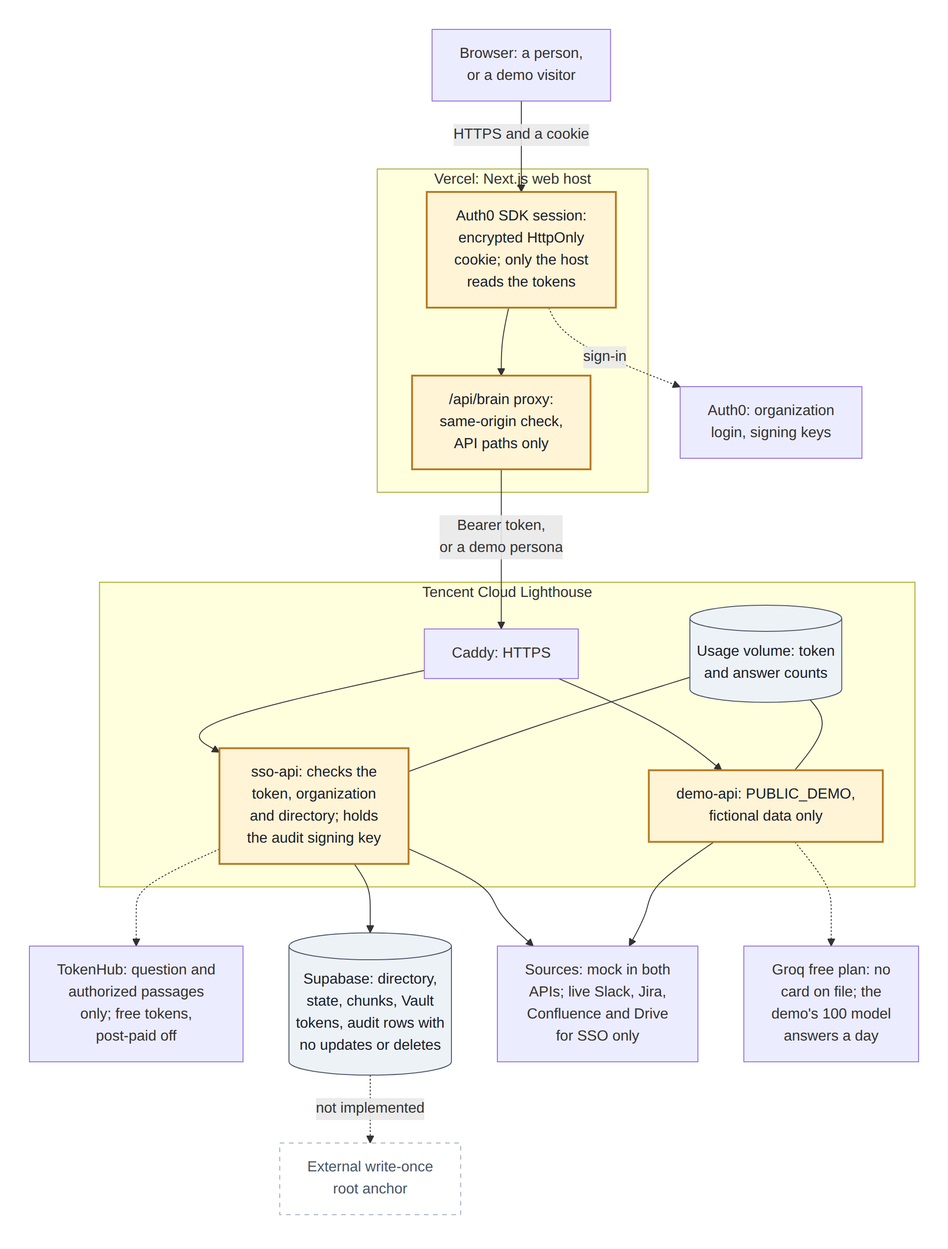
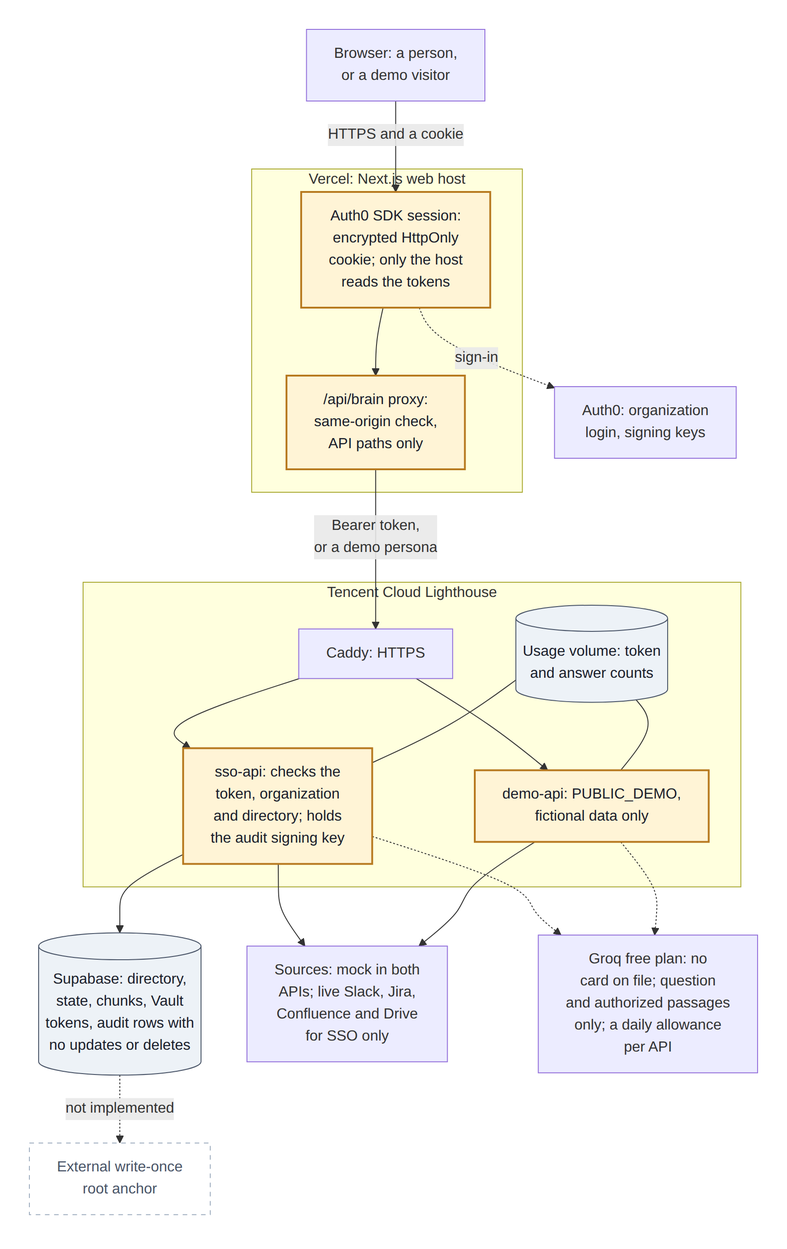
docs: no Tencent model; Groq answers on both APIs; log D55
TokenHub stopped the free trial's services for insufficient balance, and the
team chose to drop Tencent's models, for answers and for embeddings.

- The README, .env.example, the hosting guide, the architecture page and the
  hosting diagram with the trust-boundary table name Groq only.
- sso.env.example gives the sign-in API Groq lines with its own daily allowance.
- The tokenhub and hunyuan presets and the Hunyuan embedding client stay in
  the code as tested options, unused.
- Semantic search is off until another embedding provider is added.

diff --git a/README.md b/README.md
@@ -2,7 +2,7 @@
 
 # Internal Brain
 
-A permission-aware knowledge workspace over Slack, Jira, Confluence, and Drive data. Local fixtures are the default; opt-in live connectors read configured items from all four providers. It runs as a pnpm TypeScript workspace with a Node API and a Next.js web host. Vite builds the existing workspace UI served by that host. The web header and navigation use React with shadcn components; the workspace views still use the existing JavaScript controller. The default search is an in memory sparse term vector, keyword, and freshness index. Optional Hunyuan embeddings add semantic vectors, and optional Supabase uses pgvector and Postgres full text search. A remote FGA adapter can also be selected with environment variables; the default path uses in process grants.
+A permission-aware knowledge workspace over Slack, Jira, Confluence, and Drive data. Local fixtures are the default; opt-in live connectors read configured items from all four providers. It runs as a pnpm TypeScript workspace with a Node API and a Next.js web host. Vite builds the existing workspace UI served by that host. The web header and navigation use React with shadcn components; the workspace views still use the existing JavaScript controller. The default search is an in memory sparse term vector, keyword, and freshness index. Optional embeddings add semantic vectors (none are configured: Tencent's were dropped, D55), and optional Supabase uses pgvector and Postgres full text search. A remote FGA adapter can also be selected with environment variables; the default path uses in process grants.
 
 ## Run
 
@@ -69,7 +69,7 @@ A question that names a platform (Slack, Jira, Confluence, Drive) gets that plat
 
 In the default demo, changes made through admin routes or workspace actions alter only the running mock process and reset on restart. Content edits increment a source version and sync immediately. A permission edit changes grants without rebuilding chunks. Sync also compares source IDs and tombstones deleted fixtures. Search finds candidate IDs before permission checks; the API checks selected documents against the source before building answer context and again after generation, before returning it. A revoked item causes a fixed no-result response on that query. In live mode, change source permissions and content at the provider.
 
-With `HUNYUAN_EMBEDDING_API_KEY`, sync embeds changed document chunks and a query embeds its question. With `SUPABASE_URL` and `SUPABASE_SECRET_KEY` as well, sync writes documents and changed chunks to Supabase and queries its `hybrid_search` RPC. The RPC returns candidate document and chunk IDs and scores; local and optional remote authorization plus live mock source checks still run before content enters an answer. Query embedding or Supabase search failures fall back to the local index. Embedding or Supabase **sync write** failures fail that sync run for retry; initial sync runs in the background. Supabase configuration enables durable index/grant snapshots, cursors, checkpoints, connections and import jobs.
+With an embedding provider, sync embeds changed document chunks and a query embeds its question. None is configured at the moment: the only one in the code is Tencent's Hunyuan (`HUNYUAN_EMBEDDING_API_KEY`), which isn't used (D55). With `SUPABASE_URL` and `SUPABASE_SECRET_KEY` as well, sync writes documents and changed chunks to Supabase and queries its `hybrid_search` RPC. The RPC returns candidate document and chunk IDs and scores; local and optional remote authorization plus live mock source checks still run before content enters an answer. Query embedding or Supabase search failures fall back to the local index. Embedding or Supabase **sync write** failures fail that sync run for retry; initial sync runs in the background. Supabase configuration enables durable index/grant snapshots, cursors, checkpoints, connections and import jobs.
 
 ## Choosing what a company includes
 
@@ -107,25 +107,28 @@ suggestions.
 
 Without a model, the built-in writer answers: it quotes the most relevant source in full and the best sentence of the next three. A model can only choose and order sentences better. Every answer, from either, keeps only lines copied word for word from the sources the asker may see, each with its citation.
 
-The project pays for no model use (`decisions.md`, D27 and D28):
+The project pays for no model use (`decisions.md`, D27, D28 and D55):
 
-- **Providers:** `LLM_PROVIDER` is `tokenhub`, `hunyuan` or `groq`.
-  - `tokenhub` is Tencent's international model service, TokenHub. Hunyuan's models there are `hy4-preview` and `hy3`. Each language model gets 1M free tokens for 90 days, claimed under **New User Free Trial** in the Model Gallery or automatically on the first call, and calls stop when they run out unless post-paid billing is enabled. It is off by default; keep it off.
-  - `hunyuan` is Tencent's China-site Hunyuan API (for example `hunyuan-t1-latest`), where the same rule applies under **Postpaid Settings** in the Tencent HY console.
-  - Groq's free plan has no card on file, so it can never bill. Use `openai/gpt-oss-120b` with `LLM_MAX_TOKENS=4000`:
-    on 2 Oct, 8 of 9 measured answers were grounded at about 870 tokens each. Groq has retired
-    `llama-3.3-70b-versatile`; its console lists the current models.
-  - Claiming TokenHub's free trial creates a default inference service per model. Tencent stops that service while
-    the account balance is insufficient, even on the free trial, and calls then fail with code `401006`. The
-    console's Online Inference page shows the service's status.
-  - Every provider but Groq only starts with a usage file and budgets set below the free tokens, a second stop that keeps tokens for the showcase.
+- **Provider:** Groq, on both APIs (D54, D55): `LLM_PROVIDER=groq`, `LLM_MODEL=openai/gpt-oss-120b` and
+  `LLM_MAX_TOKENS=4000`. Groq's free plan has no card on file, so it can never bill. On 2 Oct, 8 of 9 measured answers
+  were grounded at about 870 tokens each. Groq has retired `llama-3.3-70b-versatile`; its console lists the current
+  models.
+  - **Tencent's models aren't used** (D55). TokenHub stopped the free trial's inference services while the account
+    balance was insufficient, and calls failed with code `401006`. The client keeps its `tokenhub` and `hunyuan`
+    presets as tested options. They only start with a usage file and token budgets below the free tokens, and Tencent
+    bills only if post-paid billing is turned on.
 - **Usage meter:** `LLM_USAGE_FILE` keeps the token and answer counts across restarts. At `LLM_TOKEN_BUDGET` or `LLM_DAILY_ANSWERS`, the built-in writer answers instead. If the model is rate limited, failing or takes over 60 seconds, or no line of its reply is copied word for word, it does the same, and the audit records an `llm_fallback` event with the reason. If the usage file can't be read or written, no model is called.
   - Calls still running count against the limits, so questions asked at the same moment can't all get past them.
   - A call that gives no usable answer still counts what the provider may bill. A refused request counts nothing.
-- **One account, one budget:** each machine counts only its own calls. When a laptop and the server share a Tencent Cloud account, their `LLM_TOKEN_BUDGET` values together must stay below the free tokens, for example 100000 and 700000. The same goes for `EMBEDDING_TOKEN_BUDGET`.
+- **One Groq account:** its free plan limits requests and tokens per minute and per day, and every key in the account
+  shares those limits: both APIs, and any laptop. Each API's `LLM_DAILY_ANSWERS` caps its share.
 - **Semantic search:** at `EMBEDDING_TOKEN_BUDGET`, semantic search pauses and keyword search carries on.
-- **`pnpm llm:usage`** asks ten typical questions through the configured model and prints the tokens each call used, and why any call gave no usable answer. It then projects 350 answers against the free tokens. "Fits" means the plan stays under 70% of the free tokens; otherwise it says to use Groq. For Groq, whose free plan can't bill, it reports the tokens and points to Groq's daily limits instead. Its calls count against the budget.
-- **`pnpm llm:calibrate`** (Hunyuan route) embeds the mock documents and labelled questions, then suggests a value for `SEMANTIC_MIN` from the scores.
+- **`pnpm llm:usage`** asks ten typical questions through the configured model and prints the tokens each call used,
+  and why any call gave no usable answer. For Groq, whose free plan can't bill, it reports the tokens and points to
+  Groq's daily limits. For the unused Tencent presets, it projects 350 answers against their free tokens instead. Its
+  calls count against the meter.
+- **`pnpm llm:calibrate`** embeds the mock documents and labelled questions, then suggests a value for `SEMANTIC_MIN`
+  from the scores. It needs an embedding provider, and none is configured since D55.
 
 Both scripts read `.env.local`. The hosted APIs take their model settings as described in [infra/tencent/README.md](infra/tencent/README.md).
 
@@ -165,9 +168,9 @@ All `/v1` routes require either a valid bearer token configured as below or, in 
 | `PUBLIC_DEMO=true` | Runs the public demo API: it accepts `x-demo-user` even with `NODE_ENV=production` and serves only the mock corpus. Startup fails if any Auth0, Supabase, live-source, source-OAuth or remote FGA setting is present. See [hosting](infra/tencent/README.md). |
 | `DEMO_API_URL` (web host) | The demo API's origin. When set, the start page offers **Try the demo**, and demo visitors' workspace requests go there with only the chosen persona. |
 | `AUTH0_ISSUER`, `AUTH0_AUDIENCE`, `AUTH0_ORG_ID` | Auth0 SSO with cached JWKS, active directory lookup and organization validation. Requires Supabase directory/persistence and an audit signing key. See [setup](docs/live-sources-and-sign-in.md). |
-| `LLM_PROVIDER`, `LLM_API_KEY`, `LLM_MODEL` | Optional language model, `tokenhub`, `hunyuan` or `groq`; without them, the built-in writer answers. The older `HUNYUAN_API_KEY` and `HUNYUAN_MODEL` still select Hunyuan. A key or model alone causes startup configuration failure. `LLM_BASE_URL` sends the same API to another HTTPS address, or to plain HTTP on this machine for a local stub. `LLM_MAX_TOKENS` caps each answer (default 1500; reasoning models such as hy4-preview and gpt-oss need about 4000). See [Language model](#language-model-optional-free-only). |
-| `LLM_USAGE_FILE`, `LLM_TOKEN_BUDGET`, `LLM_DAILY_ANSWERS` | The usage meter: counts kept across restarts, a total token budget and model answers per UTC day. At either limit, the built-in writer answers. TokenHub and Hunyuan need the file and the budget to start. |
-| `HUNYUAN_EMBEDDING_API_KEY`, `EMBEDDING_TOKEN_BUDGET` | Enables 1024-dimensional Hunyuan embeddings for changed chunks and questions; needs `LLM_USAGE_FILE` and the budget. With no Supabase variables, semantic ranking runs in the local index. At the budget, semantic search pauses and keyword search carries on. |
+| `LLM_PROVIDER`, `LLM_API_KEY`, `LLM_MODEL` | Optional language model: `groq` (D55); without them, the built-in writer answers. The `tokenhub` and `hunyuan` presets, and the older `HUNYUAN_API_KEY` and `HUNYUAN_MODEL`, still work but aren't used. A key or model alone causes startup configuration failure. `LLM_BASE_URL` sends the same API to another HTTPS address, or to plain HTTP on this machine for a local stub. `LLM_MAX_TOKENS` caps each answer (default 1500; reasoning models such as gpt-oss need about 4000). See [Language model](#language-model-optional-free-only). |
+| `LLM_USAGE_FILE`, `LLM_TOKEN_BUDGET`, `LLM_DAILY_ANSWERS` | The usage meter: counts kept across restarts, a total token budget and model answers per UTC day. At either limit, the built-in writer answers. Optional for Groq; the unused Tencent presets need the file and the budget to start. |
+| `HUNYUAN_EMBEDDING_API_KEY`, `EMBEDDING_TOKEN_BUDGET` | Not used (D55). Enables 1024-dimensional Hunyuan embeddings for changed chunks and questions; needs `LLM_USAGE_FILE` and the budget. With no Supabase variables, semantic ranking runs in the local index. At the budget, semantic search pauses and keyword search carries on. |
 | `SUPABASE_URL`, `SUPABASE_SECRET_KEY` | Server-only directory, audit and state persistence. With embeddings, also enables pgvector search. Apply migrations 001–005. |
 | `LIVE_SOURCES_JSON` | Selects real HTTP readers for configured Slack channels, Jira issues, Confluence pages, and Google Drive files. All four source entries, provider credentials, and Auth0 sign-in are required. See [setup and limits](docs/live-sources-and-sign-in.md). |
 | `AUDIT_LOG_PATH`, `AUDIT_SIGNING_KEY_FILE` | Together select a flushed JSONL audit file and load a PEM private signing key for Merkle batches. With neither, audit data and roots are in memory. Setting a log path without a key fails startup. |

diff --git a/docs/trust-boundary.md b/docs/trust-boundary.md
@@ -32,10 +32,9 @@ flowchart TB
     DemoAPI["demo-api: PUBLIC_DEMO,<br/>fictional data only"]
   end
 
-  TokenHub["TokenHub: question and<br/>authorized passages<br/>only; free tokens,<br/>post-paid off"]
   Supabase[("Supabase: directory,<br/>state, chunks, Vault<br/>tokens, audit rows with<br/>no updates or deletes")]
   Sources["Sources: mock in both<br/>APIs; live Slack, Jira,<br/>Confluence and Drive<br/>for SSO only"]
-  Groq["Groq free plan: no<br/>card on file; the<br/>demo's 100 model<br/>answers a day"]
+  Groq["Groq free plan: no<br/>card on file; question<br/>and authorized passages<br/>only; a daily allowance<br/>per API"]
   Anchor["External write-once<br/>root anchor"]
 
   Visitor -->|"HTTPS and a cookie"| Session
@@ -46,7 +45,7 @@ flowchart TB
   Caddy --> DemoAPI
   Usage --- SsoAPI
   Usage --- DemoAPI
-  SsoAPI -.-> TokenHub
+  SsoAPI -.-> Groq
   SsoAPI --> Supabase
   SsoAPI --> Sources
   DemoAPI --> Sources
@@ -114,8 +113,8 @@ sequenceDiagram
 | **SSO API ↔ Auth0** | Signing keys (JWKS), cached. Tokens must be RS256 and match the issuer, audience and expiry, carry `sub`, `exp` and the expected `org_id`, and map to an active directory entry in that organization. | Anything about the question or answer. | The person is checked again before an answer is returned, so a deactivated account stops at once. |
 | **API ↔ Supabase** | The server-only secret key. Directory reads, the state snapshot, ordered audit appends, the `hybrid_search` RPC (which returns IDs and scores), and Vault calls for source tokens. | The secret key, outside the API host. Source tokens in API responses or snapshots. | Triggers reject audit updates and deletes, but not a database owner replacing the database. One audit writer per organization. |
 | **API ↔ sources** | Mock connectors run inside the API. Live connectors use OAuth tokens kept in Vault (or `LIVE_SOURCES_JSON`); each person needs their own delegated credential, and no credential means no access. | Content from one organization to another: each API serves one organization. | Polling only, no webhooks. Live imports read current text only. Workspace actions (creating a task, Mark done) change mock sources only; live connectors keep read-only scopes, so the app links to Jira instead. |
-| **API ↔ model provider** | The question, and the authorized, freshly checked passages with their citation IDs. TokenHub or Hunyuan for SSO, within a token budget; Groq for the demo, within a daily allowance. | Denied documents' titles, metadata or text. Identities, tokens or keys. | The provider sees the passages it is sent. Tencent bills only if post-paid is turned on, which stays off; Groq's free plan can't bill. |
-| **API ↔ embeddings** (optional) | Changed chunk text at sync, and question text at query, to Hunyuan's embedding API. | Permission data. | It sends source text to Tencent when configured. Unconfirmed on TokenHub. |
+| **API ↔ model provider** | The question, and the authorized, freshly checked passages with their citation IDs, to Groq, from both APIs, each within its own daily allowance (D55). | Denied documents' titles, metadata or text. Identities, tokens or keys. | The provider sees the passages it is sent. Groq's free plan has no card on file, so it can't bill; both APIs share its limits. |
+| **API ↔ embeddings** (optional) | None since Tencent's were dropped (D55). With a provider: changed chunk text at sync, restricted documents included, and question text at query. | Permission data. | The provider sees the text of every chunk, not only what one person may read. |
 | **API ↔ remote FGA** (optional) | Organization-scoped tuples at sync; batch checks of document IDs at query. | Document content. | Remote failures deny. Platform permission shapes stay in the connector layer. |
 | **Lighthouse host** | Caddy terminates HTTPS for two host names. `sso-api` reads `sso.env` and the audit signing key (mounted read-only). Both APIs share the usage-count volume. | Real settings in `demo-api`: it refuses to start with any Auth0, Supabase, live-source, source OAuth or remote FGA setting. | `docker compose down -v` deletes the usage counts. |
 | **Audit store and keys** | Ed25519-signed Merkle batches that link each root to the previous one. At startup, the chain, roots and signatures are checked. | The signing key, outside the API host. | No external write-once anchor is running yet (`tools/anchor` covers file-based logs, not Supabase): someone holding both the database and the key could rewrite history. |

diff --git a/infra/tencent/README.md b/infra/tencent/README.md
@@ -162,7 +162,7 @@ over demo mode.
 
 ## 7. Optional: a language model that costs nothing
 
-Without a model, the built-in writer answers. To add one, see `decisions.md`, D27 and D28.
+Without a model, the built-in writer answers. Both APIs use Groq when one is set (`decisions.md`, D27, D28 and D55).
 
 **The public demo on Groq's free plan.** With no card on file, Groq can't bill. On the server:
 
@@ -176,13 +176,9 @@ sudo docker compose up -d demo-api
 Paste the Groq API key into `demo.env`. All visitors share `LLM_DAILY_ANSWERS` (100 to start). After that, the
 built-in writer answers until midnight UTC.
 
-**The SSO API on Tencent's model, within its free tokens.** Do this only after `pnpm llm:usage` reports that the plan
-fits. First, in TokenHub, check that post-paid billing is not enabled, as it isn't by default. Calls past the free
-tokens then stop instead of billing, and the budgets below are a second stop.
-Uncomment the TokenHub lines in `sso.env`. Every machine using the same Tencent Cloud account draws on the same free
-tokens, and each counts only its own calls. So the server's budgets plus the laptops' must stay below 800000 each: the
-example's 700000 leaves 100000 for local runs. Then run `sudo docker compose --profile sso up -d`. The API refuses to
-start with TokenHub or Hunyuan if a budget is missing.
+**The SSO API on Groq too.** Uncomment the Groq lines in `sso.env` and paste a Groq API key. Every key in one Groq
+account shares its per-minute and per-day limits, and each API counts only its own answers, so each keeps its own
+`LLM_DAILY_ANSWERS`. Then run `sudo docker compose --profile sso up -d`.
 
 **Checking usage.** Each API keeps its counts on the `model-usage` volume, and they survive restarts and rebuilds:
 
@@ -191,8 +187,8 @@ sudo docker compose exec demo-api cat /data/usage-demo.json
 sudo docker compose --profile sso exec sso-api cat /data/usage-sso.json
 ```
 
-Never run `docker compose down -v` while Hunyuan is in use. It deletes the volume, and the counts would start from
-zero again. As Nur, asking the audit log for `llm_fallback` shows when, and why, the built-in writer stepped in.
+`docker compose down -v` deletes the volume, and the day's counts start from zero again. As Nur, asking the audit log
+for `llm_fallback` shows when, and why, the built-in writer stepped in.
 
 ## Updating
 
@@ -225,8 +221,7 @@ Start with `sudo docker compose ps` and `sudo docker compose logs --tail 50 <ser
 | The start page has no **Try the demo** | `DEMO_API_URL` isn't set for that environment, or the deployment predates it | Step 5, then redeploy |
 | The workspace says "The demo API did not accept this persona" | `DEMO_API_URL` points at the SSO API | Use the `demo-api.…` address |
 | The workspace says "The demo API is not reachable; check DEMO_API_URL" | Wrong address, or the demo API is down | Run the step 4 checks |
-| Answers no longer come from the model | The daily allowance or the budget is used up, the model is rate limited, or its replies weren't copied word for word (`ungrounded`). Ask the audit log for `llm_fallback` to see which. | Wait for midnight UTC, or check the counts (step 7). Raise a Hunyuan budget only within its free tokens. |
-| An API stops at startup with `TokenHub needs LLM_USAGE_FILE and LLM_TOKEN_BUDGET…` (or `Hunyuan needs…`) | The model settings have no budget | Set the budgets in `sso.env` (step 7) |
+| Answers no longer come from the model | The daily allowance or the budget is used up, the model is rate limited, or its replies weren't copied word for word (`ungrounded`). Ask the audit log for `llm_fallback` to see which. | Wait for midnight UTC, or check the counts (step 7). |
 | The build stops with `exit code: 137` | The server ran out of memory while building | Add swap (below), then build again |
 
 To add 2 GB of swap:

diff --git a/docs/live-sources-and-sign-in.md b/docs/live-sources-and-sign-in.md
@@ -8,7 +8,7 @@ Auth0 validates identity; Supabase `workspace_users` supplies active status, org
 
 1. Create an Auth0 RS256 API and Regular Web Application, enable Organizations, create Company A, and enable the required database and SSO connections. Use access tokens lasting 5–15 minutes. Register callback `http://127.0.0.1:3001/auth/callback`, logout `http://127.0.0.1:3001` (the exact `APP_BASE_URL` value, which the SDK sends as `returnTo`), and web origin `http://127.0.0.1:3001` for local use. Set `APP_BASE_URL` in the web host environment for other deployments.
 2. Apply SQL migrations `001` through `005` in order to Supabase. Migration `003` retains nullable legacy Supabase Auth IDs and keys memberships by organization and `user_id`. Migrations `004` and `005` require pgvector and Vault respectively. Existing indexed demo rows are assigned `demo-company-a`; reimport under the actual Auth0 organization before live use. Existing persisted audit rows without complete payloads require a separately verified migration; startup refuses to silently invent their history.
-3. Set `AUTH0_ISSUER`, `AUTH0_AUDIENCE`, `AUTH0_ORG_ID`, `SUPABASE_URL`, `SUPABASE_SECRET_KEY`, and `AUDIT_SIGNING_KEY_FILE` (an Ed25519 PEM private key) in the root `.env.local` (template: `.env.example`), and start the API with `pnpm dev:sso`, which loads that file. Keep keys on the API host. The directory and persistence work without an embedding service. Adding `HUNYUAN_EMBEDDING_API_KEY`, with `LLM_USAGE_FILE` and `EMBEDDING_TOKEN_BUDGET`, enables the Supabase hybrid search index.
+3. Set `AUTH0_ISSUER`, `AUTH0_AUDIENCE`, `AUTH0_ORG_ID`, `SUPABASE_URL`, `SUPABASE_SECRET_KEY`, and `AUDIT_SIGNING_KEY_FILE` (an Ed25519 PEM private key) in the root `.env.local` (template: `.env.example`), and start the API with `pnpm dev:sso`, which loads that file. Keep keys on the API host. The directory and persistence work without an embedding service. An embedding provider enables the Supabase hybrid search index; none is configured since Tencent's were dropped (D55).
 4. Provision the six identities with `pnpm exec tsx --env-file=.env.local data/seed-auth0-users.ts` (full command in [Auth0 setup](../apps/web/AUTH0.md#3-supabase-checklist)). Also set `AUTH0_MANAGEMENT_CLIENT_ID`, `AUTH0_MANAGEMENT_CLIENT_SECRET`, `AUTH0_DATABASE_CONNECTION`, and `MOCK_USER_PASSWORDS_JSON`. The M2M application needs Management API permissions to read/create users and add organization members. Existing accounts are reused; passwords are not reset. The `.example` fixture emails must be replaced with real matching platform emails for live integration.
 5. Configure the web host's values in the same root `.env.local` as described in [Auth0 SDK setup](../apps/web/AUTH0.md), start it with `pnpm --dir apps/web dev`, open `http://127.0.0.1:3001/` and choose **Sign in with SSO**. The [troubleshooting table](../apps/web/AUTH0.md#6-symptom--cause) maps each failure to its cause.
 6. Configure `HOST`, `PORT`, `API_ORIGIN` and `WEB_ORIGIN` for deployment. Set `BRAIN_API_URL` in the Next.js server environment to the API origin.

diff --git a/decisions.md b/decisions.md
@@ -676,10 +676,37 @@ Each entry records the options that were considered, what was chosen, and the tr
 
 ---
 
+## 2026-10-02 — No Tencent model
+
+- **Input:** D54's TokenHub block.
+- **How decided:** chosen explicitly in a planning session.
+
+### D55 — No Tencent model; Groq answers on both APIs (supersedes D54's return to TokenHub)
+- **Options:** wait for Tencent's answer on credits, then move to `hy4-preview` as D54 planned / drop Tencent's models.
+- **Chosen:** drop them, for answers and for embeddings.
+  - Groq's `openai/gpt-oss-120b` answers on the public demo and on the sign-in API. Each API keeps its own daily
+    allowance (`LLM_DAILY_ANSWERS`).
+  - With Tencent's embedding model gone, semantic search is off until another provider is added.
+  - The `tokenhub` and `hunyuan` presets and the Hunyuan embedding client stay in the code as tested options, unused.
+    The docs and examples name Groq only.
+- **Trade-off:**
+  - The model isn't Tencent's own.
+  - Every key in one Groq account shares its per-minute and per-day limits, so the two APIs compete for them; the
+    daily allowances cap each one's share.
+  - Groq's free plan has no card on file, so nothing can be billed (D27).
+
+### Implementation details (no Tencent model)
+- **Docs and examples** name Groq only: the README, `.env.example`, `infra/tencent/sso.env.example`, the hosting
+  guide's model step, the architecture page, and the hosting diagram with the trust-boundary table.
+- **The sign-in API on Groq:** `sso.env.example` has the Groq lines and a daily allowance of 100. The API counts its
+  answers in `/data/usage-sso.json`, as before.
+
+---
+
 ## Deferred (not decided yet)
 These are open. Pick them up in a later round and record the decision here.
 
-- **The model's route and the public demo on Hunyuan:** waits for the team's `pnpm llm:usage` run (D27, D28).
+- **The model's route:** settled: Groq on both APIs (D54, D55).
 - **Hosted SSO next to local SSO work:** the audit chain allows one writer per organization. Either stop the hosted
   SSO API during local `pnpm dev:sso` work, or give it its own Supabase project.
 - **Demo state:** the public demo shares one state across all visitors until it restarts. Scheduled restarts or

diff --git a/docs/architecture.md b/docs/architecture.md
@@ -174,13 +174,15 @@ person may also open.
 - **The built-in writer** ([`LocalGroundedLlm`](../packages/retrieval/src/index.ts)) is code, not a model.
   - It quotes the most relevant source in full (up to six sentences), then the best sentence of the next three.
   - It needs no key or network, and it is the default.
-- **A language model** is optional: TokenHub, Hunyuan on Tencent's China site, or Groq.
-  - [`llm.ts`](../apps/api/src/llm.ts) is one client for all three.
+- **A language model** is optional: Groq's `openai/gpt-oss-120b` (D54, D55).
+  - [`llm.ts`](../apps/api/src/llm.ts) is one client for OpenAI-style APIs. Its `tokenhub` and `hunyuan` presets, for
+    Tencent's services, aren't used.
   - [`llm-budget.ts`](../apps/api/src/llm-budget.ts) puts it behind a usage meter: a token budget, a daily
     allowance, room held for calls still running, and a 60-second timeout.
   - A model receives the question and the authorized passages with their citation IDs, and nothing else.
 - **Fallbacks:** the built-in writer answers when the model is over a limit, rate limited or failing, or when none of
-  its lines are copied word for word. The audit records `llm_fallback` with the reason. See decisions D27 to D31.
+  its lines are copied word for word. The audit records `llm_fallback` with the reason. See decisions D27 to D31, D54
+  and D55.
 
 ## Audit
 
@@ -214,8 +216,8 @@ person may also open.
   yet. Until then, someone holding both the database and the signing key could rewrite history undetected.
 - **Remote FGA:** it uses a generic per-document schema. Each platform's own permission shape is enforced in the
   connector layer.
-- **Embeddings:** semantic search uses Hunyuan's China-site embedding API. Embeddings through TokenHub are
-  unconfirmed.
+- **Embeddings:** none are configured. Tencent's were dropped (D55), so search uses keywords, synonyms and freshness
+  only.
 - **Demo identities:** they are fixtures chosen with a header, and only the public demo API accepts them.
 - **Live imports:** they read current text only: no revision history, Jira comments or text from images.
 - **Workspace writes:** creating a task and Mark done change mock sources only. Live connectors keep read-only scopes.
